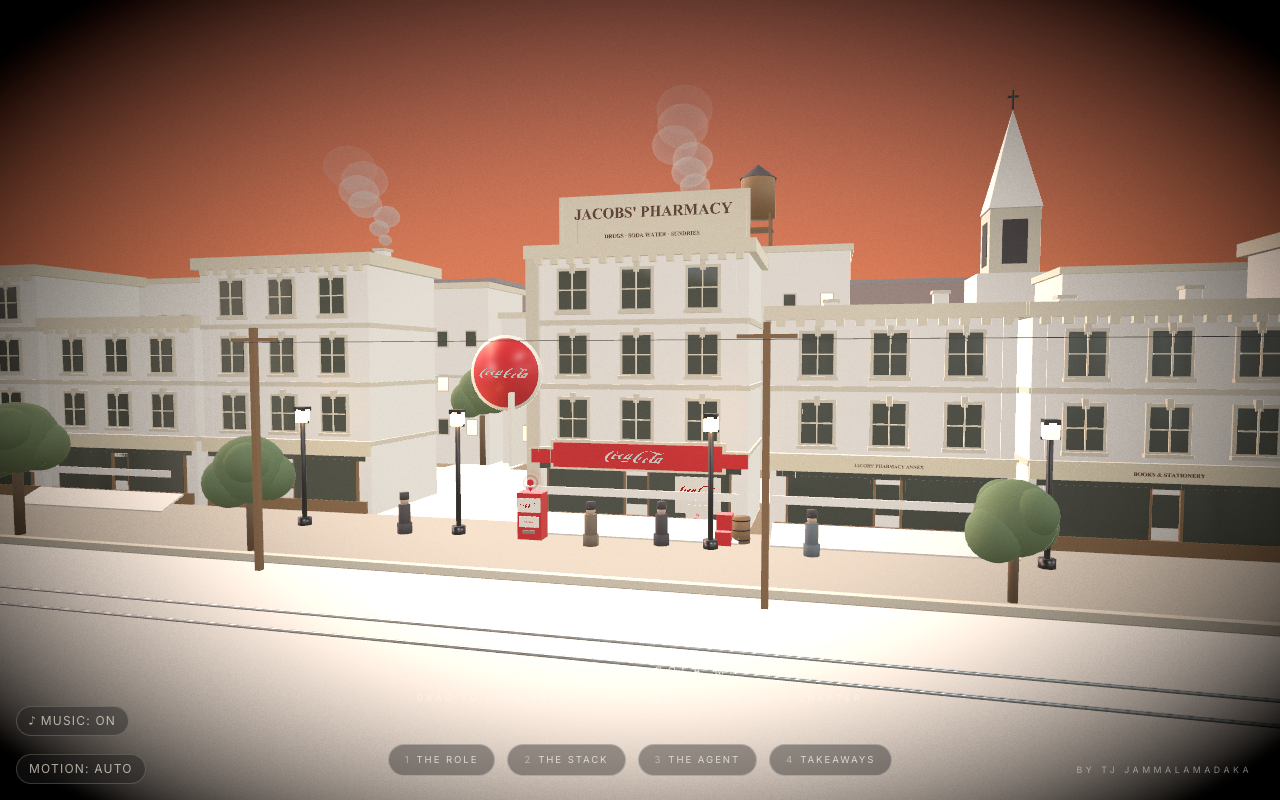
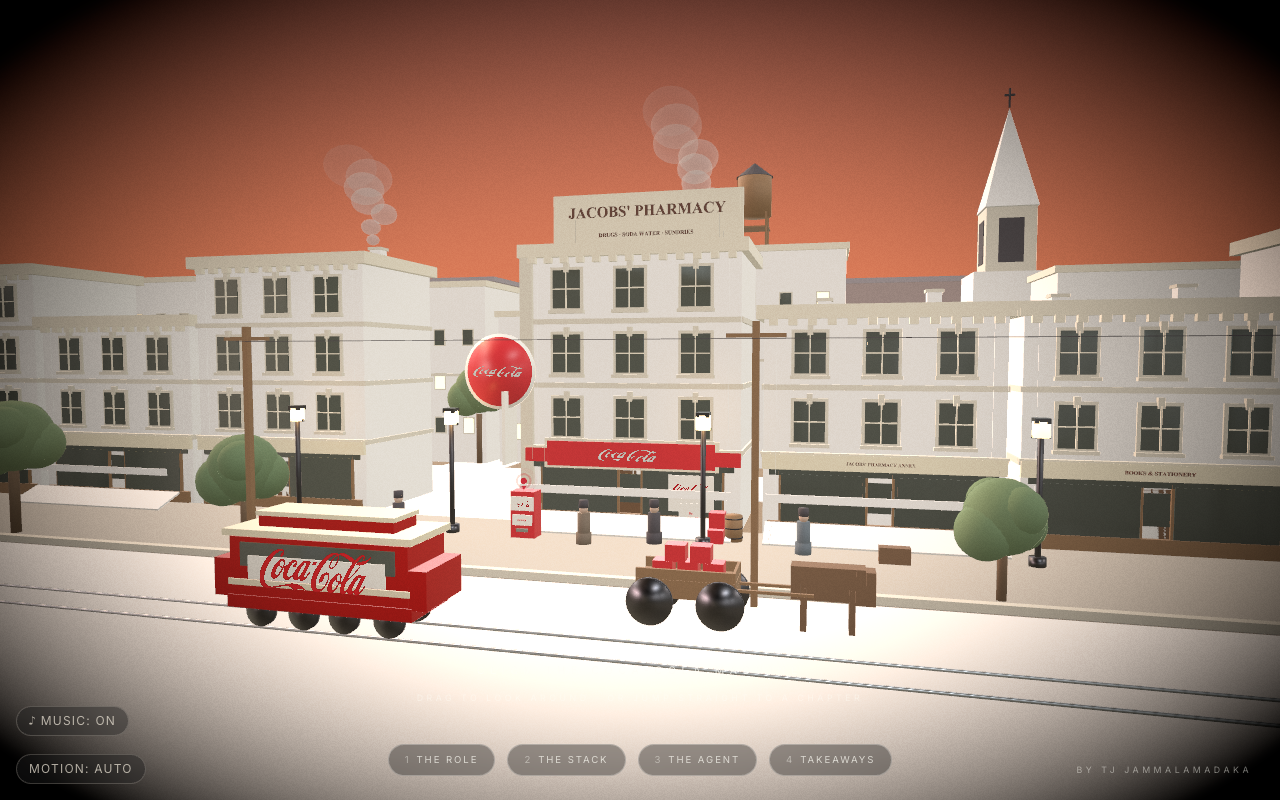
docs: deep-link/swipe notes + Lighthouse scorecard (100/100/100 quality)

Changed region(s): [[0.0, 0.125, 1.0, 0.9062], [0.2812, 0.25, 0.3125, 0.3125], [0.25, 0.2188, 0.2812, 0.25]]

diff --git a/plans/260609-2228-level-up-8-truthful-controls/plan.md b/plans/260609-2228-level-up-8-truthful-controls/plan.md
@@ -1,0 +1,49 @@
+# Level-up 8: truthful controls, shareable URLs, guarded main
+
+**Status:** in progress · **Branch:** `polish-pass-8` (stacked on 7 → PR base `polish-pass-7`)
+**Mode:** ultracode
+
+## Why (the ultrathink cut)
+
+Passes 6-7 completed content, reach, life, and announcements. What's left is
+integrity and infrastructure, not polish:
+
+1. **The Motion toggle does nothing.** `useReducedMotion` reads only
+   `matchMedia`; the toggle writes a body attribute nobody consumes. A shipped
+   control that lies outranks any new feature.
+2. **Zero URL state.** No deep links; back button exits the site. A portfolio
+   gets *shared* — `#tools` should land in the chapter, and back should work.
+3. **No CI.** Nothing guards main; all verification so far is my local loop.
+4. **Never measured.** Record real Lighthouse numbers; fix only cheap findings.
+
+## Phases
+
+1. **fix(motion): store-backed `useReducedMotion`** — module store
+   (override: system|reduced|full, persisted throw-safe) merged with
+   `matchMedia` via `useSyncExternalStore`; toggle drives the store. Every
+   existing consumer (camera, smoke, vehicles, lamps, dispenser, beacon, gate)
+   works through the hook unchanged. Drop the dead `data-motion` dataset
+   (no consumers). VERIFY: with Motion: Off, two frames 2.5 s apart are
+   pixel-identical modulo film grain (thresholded diff count); motion-on
+   frames differ in thousands of pixels.
+2. **feat(nav): deep links + back button** — `view ↔ location.hash` in
+   NavigationProvider: init from hash, pushState per view change, popstate →
+   setView. `#role|#tools|#agent|#takeaways`. Recap NOT hash-linked (YAGNI).
+3. **feat(recap): touch swipe paging** — pointerType==='touch' window
+   listeners while open; horizontal-dominant 60 px threshold.
+4. **fix(mobile): safe-area insets** — pills `bottom-[max(...)]`, mobile
+   toggles `top-[max(...)]` so nothing sits under the home indicator/notch.
+5. **fix(audio): pause music on hidden tab**, resume on return.
+6. **chore(ci): GitHub Actions** — npm ci + production bundle on PR/push to
+   main. First green run verified via `gh`.
+7. **chore(deps): remove dead `lenis`**, fix stale comments.
+8. **measure: Lighthouse** (mobile + desktop presets) against the preview;
+   record scores in a report; act only on cheap findings.
+9. **Verify + review** — suite + new checks (motion-freeze pixel diff, deep
+   link, back button, swipe), screenshots eyeballed, one adversarial reviewer
+   on the diff (focused: the motion store touches every animation consumer).
+
+## Out of scope
+
+Cinematic camera arcs (glide is good; arc-vs-geometry risk), recap deep-link,
+analytics (needs user opt-in), service worker, custom domain.

diff --git a/README.md b/README.md
@@ -17,7 +17,9 @@ Press **START** and the camera settles into a wide establishing shot. From there
 1. **The vending machine.** Click the glowing Coca-Cola machine: a 5-cent coin drops, a contour bottle is dispensed and floats up to a hero pose, and a story-mode panel pages through the whole internship — intro → The Role → The Stack → The Agent → Takeaways.
 2. **The chapter pills.** Click a pill (or press keys **1–4**) and the camera flies to a vantage point in the diorama for that chapter.
 
-Drag to look around. **ESC** returns home.
+Drag to look around (swipe pages the recap on touch). **ESC** returns home.
+Chapters are deep-linkable — share `/#tools` and the camera flies straight
+there — and the browser back button walks your visit.
 
 ### A note on content
 
@@ -41,7 +43,7 @@ Drag to look around. **ESC** returns home.
 - **Runtime decal re-tint.** The baked Coca-Cola script decals are re-tinted on a canvas at runtime to get crisp white lettering without shipping duplicate textures.
 - **Capture-phase key routing.** Keyboard input is routed at the capture phase so the recap panel and diorama navigation never steal each other's keys.
 - **Respectful by default.** `prefers-reduced-motion` support, a WebGL fallback, and lazy-loaded music — nothing autoplays at you.
-- **Shippable polish.** PWA manifest, SEO/OG tags, and a production-bundle screenshot verification loop (Puppeteer) that catches visual regressions before deploy.
+- **Shippable polish.** PWA manifest, SEO/OG tags, CI, and a production-bundle screenshot verification loop (Puppeteer) that catches visual regressions before deploy. Lighthouse: **100 / 100 / 100** accessibility / best-practices / SEO.
 
 ## Period details
 

diff --git a/plans/reports/lighthouse-260609-2228-scores.md b/plans/reports/lighthouse-260609-2228-scores.md
@@ -1,0 +1,40 @@
+# Lighthouse — polish-pass-8 (vite preview, production bundle)
+
+Run: npx lighthouse, headless Chrome, 2026-06-09.
+
+## Desktop preset
+| Category | Score |
+|---|---|
+| Performance | **78** |
+| Accessibility | **100** |
+| Best practices | **100** |
+| SEO | **100** |
+
+FCP 0.6 s · LCP 2.9 s · TBT 180 ms · CLS 0.001
+
+## Mobile (default: slow-4G + 4× CPU throttle)
+| Category | Score |
+|---|---|
+| Performance | 34 |
+| Accessibility | **100** |
+| Best practices | **100** |
+| SEO | **100** |
+
+FCP 3.2 s · LCP 17.4 s · TBT 9,920 ms · CLS 0.003 · SI 6.3 s
+
+## Read
+
+- The three quality categories are perfect on both form factors — the a11y,
+  meta, and hardening passes show up directly here.
+- Mobile perf is the intrinsic cost of a 1304-mesh WebGL diorama on simulated
+  slow 4G: ~1.8 MB of models + 227 KB gz three.js, then meshopt decode + scene
+  build under 4× CPU throttle. The honest loader (FCP 3.2 s, CLS ≈ 0) covers
+  the wait.
+- Only flagged opportunity: `unused-javascript` 161 KiB — three.js's
+  monolithic surface inside the vendor chunk; not actionable without fragile
+  custom tree-shaking. Accepted.
+- "agentic-browsing" 67 (experimental category) — not chased.
+
+## Unresolved questions
+
+- None. Re-measure if a future pass adds heavy assets.
